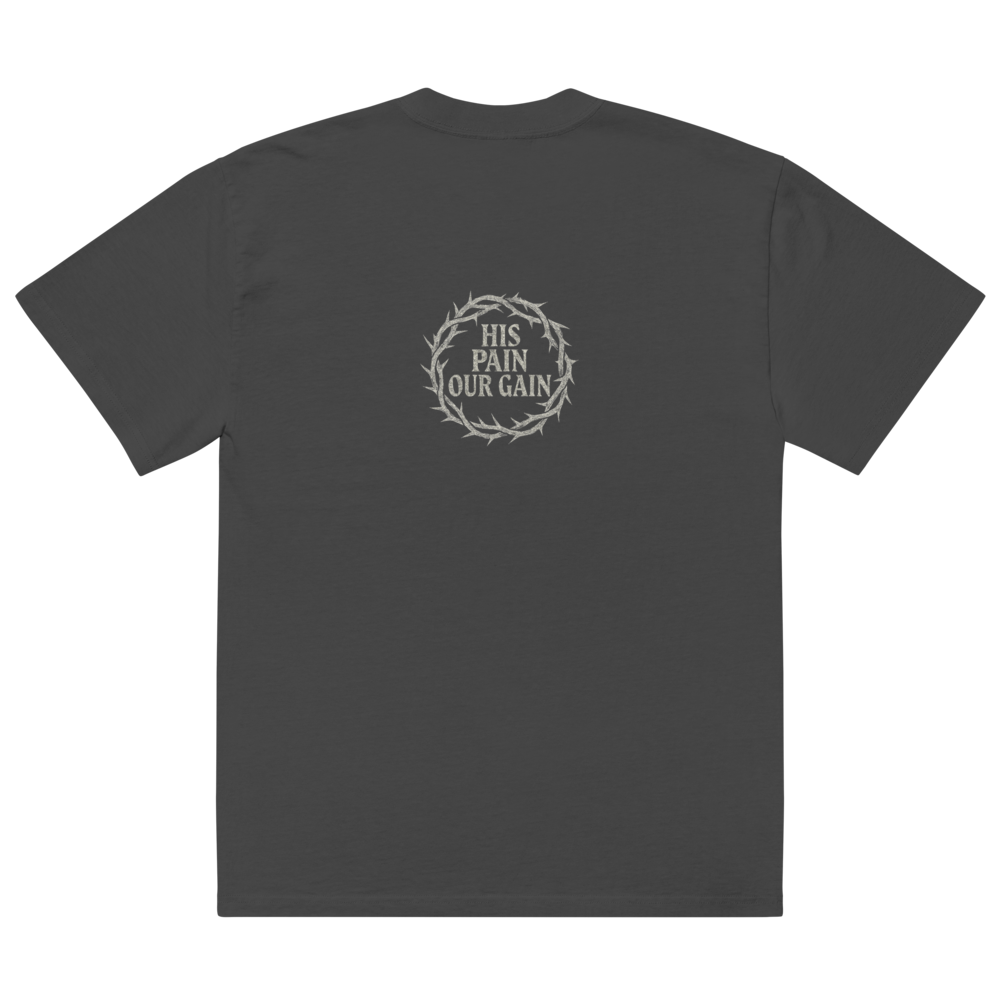
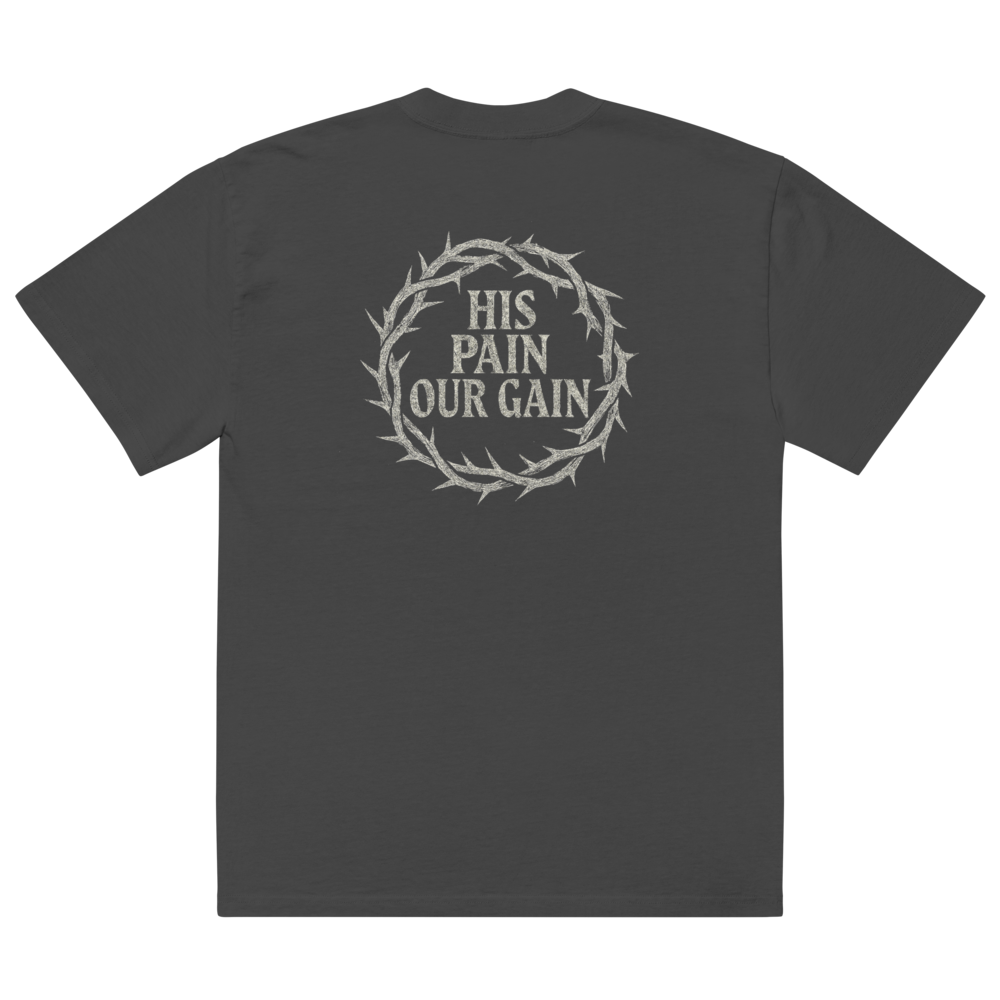
Fix His Pain Our Gain mockups and remove Twitter metadata
- Regenerate front, back, and side mockups for His Pain Our Gain
  with correct design positioning
- Remove Twitter title and description from metadata (no account)

Changed region(s): [[0.372, 0.217, 0.651, 0.496]]

diff --git a/app/layout.tsx b/app/layout.tsx
@@ -49,8 +49,6 @@ export const metadata: Metadata = {
   },
   twitter: {
     card: "summary_large_image",
-    title: "UPL1FT | Faith-Based Streetwear",
-    description: "Premium streetwear for the battle-hardened believer.",
     images: ["https://upl1ft.org/images/og-image.png"],
   },
 };
